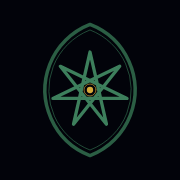
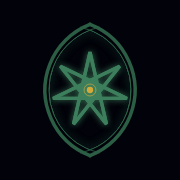
publish cosmo weather 30a59839047da5042f39a507b8fd3fc13bbf9e37

diff --git a/sw.js b/sw.js
@@ -1,5 +1,5 @@
 /* siderarium — service worker. network first, cache fallback: the clock works offline after one visit. */
-const VERSION = 'sd-2026-10-16d';
+const VERSION = 'sd-2026-10-16e';
 const SHELL = ['./', './index.html', './css/style.css', './js/vendor/astronomy.browser.min.js', './js/color.js', './js/correspondences.js', './js/i18n.js',
   './js/engine.js', './js/glyphs.js', './js/render.js', './js/app.js', './manifest.webmanifest', './icons/icon-192.png', './icons/icon-512.png'];
 self.addEventListener('install', e => { e.waitUntil(caches.open(VERSION).then(c => c.addAll(SHELL)).then(() => self.skipWaiting())); });

diff --git a/DESIGN.md b/DESIGN.md
@@ -254,4 +254,4 @@ Angels of the days and hours from the Heptameron: michael, gabriel, samael, raph
 ## 17 · Name and glyph
 
 - **Siderarium**, "the room of the stars", on the pattern of planetarium. The descriptor: *macrocosmic clock visually tracking the astrological energy of the moment*. The three modes are the Hermetic pair: clock is the macrocosm, natal the microcosm, transits one laid on the other. The folder and the Instagram feed keep "cosmo weather" for now.
-- **Glyph.** The Seed of Life is gone. The icon is a vesica piscis (the door, the lens, Euclid I.1) holding the heptagram {7/3}: the seven planets in Chaldean order joined every third point give the days of the week, so the star is the clock of the week drawn from the planetary order. Forest green on the void. The vesica is drawn as a double tressure, a heavy line with a hairline within, in the broader proportion of a seal's mandorla; the centre is a bezant in an annulet, the light of the moment. Heraldic by a tad, no more.
+- **Glyph.** The Seed of Life is gone. The icon is a vesica piscis (the door, the lens, Euclid I.1) holding the heptagram {7/3}: the seven planets in Chaldean order joined every third point give the days of the week, so the star is the clock of the week drawn from the planetary order. Forest green on the void. The vesica is drawn as a double tressure, a heavy line with a hairline within, in the broader proportion of a seal's mandorla; the centre is a bezant in an annulet, the light of the moment. The hairline runs past the two points, as the compass left it; the star's tips are chamfered, its heart (the central heptagon and the seven small triangles about it) is filled, and the star and the inside of the hairline carry a low glow. Heraldic by a tad, no more.
